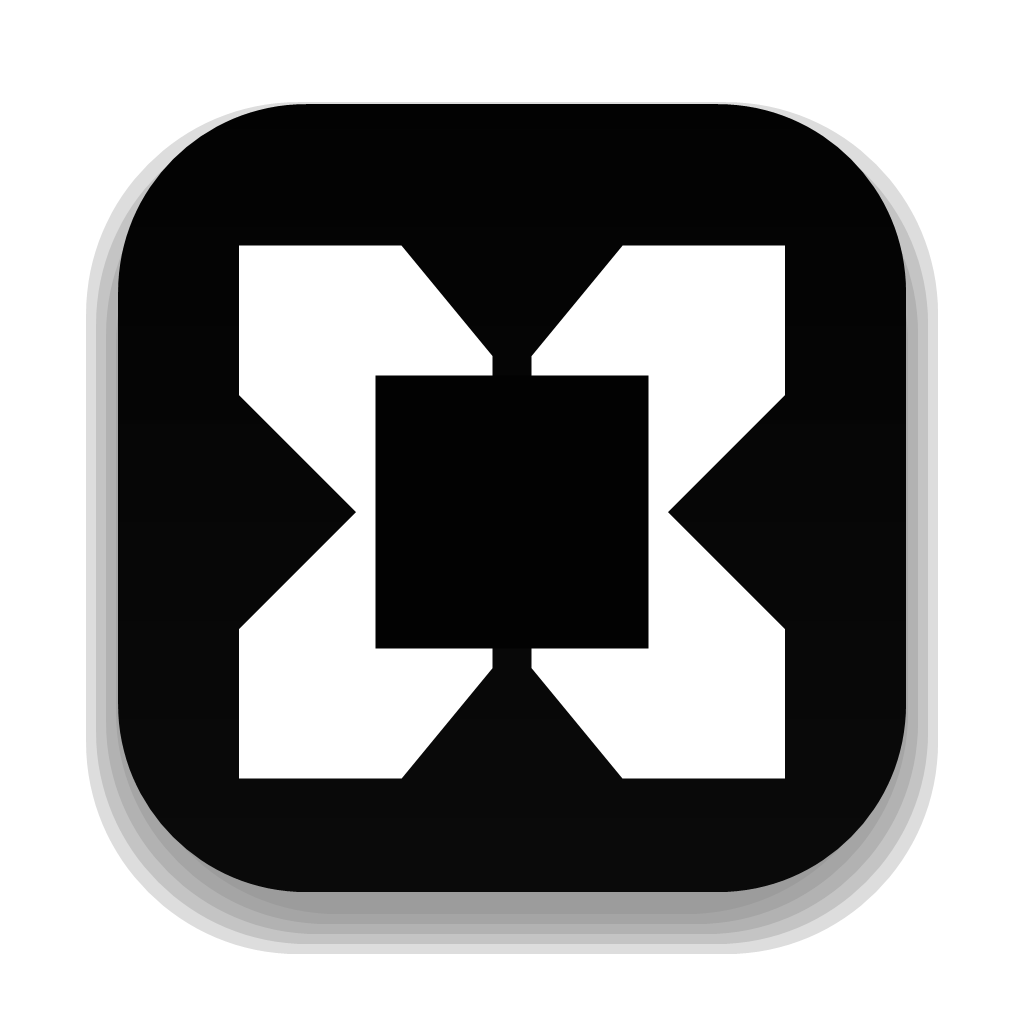
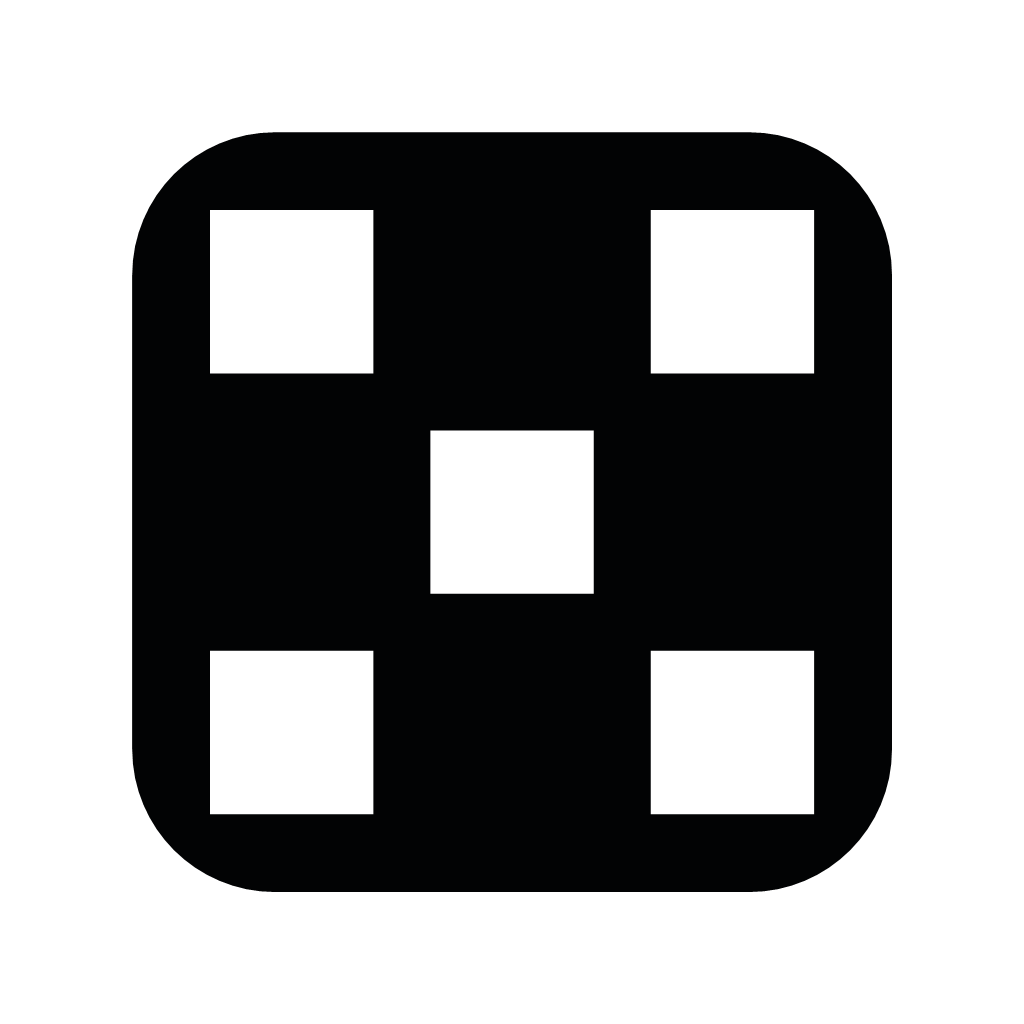
init

Changed region(s): [[0.0625, 0.0938, 0.9375, 0.9375], [0.1875, 0.1875, 0.8125, 0.8125], [0.4062, 0.4062, 0.5938, 0.5938]]

diff --git a/src/features/splash/StaticSplash.tsx b/src/features/splash/StaticSplash.tsx
@@ -1,23 +1,59 @@
-import { Image, StyleSheet, useWindowDimensions, View } from 'react-native';
+import { StyleSheet, useWindowDimensions, View } from 'react-native';
 
 type StaticSplashProps = {
   readonly onReady: () => void;
 };
 
-const splashLogoSource = require('../../../assets/brand/splash-logo.png');
+const logoModuleRatio = 0.215;
+const logoGapRatio = 0.075;
+const logoModulePlacements = [
+  [0, 0],
+  [2, 0],
+  [1, 1],
+  [0, 2],
+  [2, 2]
+] as const;
+
+type CodeLogoGlyphProps = {
+  readonly color: string;
+  readonly size: number;
+};
+
+function CodeLogoGlyph({ color, size }: CodeLogoGlyphProps) {
+  const moduleSize = Math.round(size * logoModuleRatio);
+  const moduleGap = Math.round(size * logoGapRatio);
+  const glyphContentSize = (moduleSize * 3) + (moduleGap * 2);
+  const glyphOffset = Math.round((size - glyphContentSize) / 2);
+
+  return (
+    <View style={{ height: size, width: size }}>
+      {logoModulePlacements.map(([columnIndex, rowIndex]) => (
+        <View
+          key={`${columnIndex}-${rowIndex}`}
+          style={[
+            styles.logoModule,
+            {
+              backgroundColor: color,
+              height: moduleSize,
+              left: glyphOffset + (columnIndex * (moduleSize + moduleGap)),
+              top: glyphOffset + (rowIndex * (moduleSize + moduleGap)),
+              width: moduleSize
+            }
+          ]}
+        />
+      ))}
+    </View>
+  );
+}
 
 export function StaticSplash({ onReady }: StaticSplashProps) {
   const { width, height } = useWindowDimensions();
   const shortSide = Math.max(Math.min(width, height), 240);
-  const logoCanvasSize = Math.round(Math.min(Math.max(shortSide * 0.56, 188), 240));
+  const logoSize = Math.round(Math.min(Math.max(shortSide * 0.24, 72), 104));
 
   return (
     <View style={styles.root} onLayout={onReady}>
-      <Image
-        resizeMode="contain"
-        source={splashLogoSource}
-        style={{ height: logoCanvasSize, width: logoCanvasSize }}
-      />
+      <CodeLogoGlyph color="#050505" size={logoSize} />
     </View>
   );
 }
@@ -28,5 +64,8 @@ const styles = StyleSheet.create({
     backgroundColor: '#FFFFFF',
     flex: 1,
     justifyContent: 'center'
+  },
+  logoModule: {
+    position: 'absolute'
   }
 });

diff --git a/App.tsx b/App.tsx
@@ -6,7 +6,7 @@ import { SafeAreaProvider } from 'react-native-safe-area-context';
 import { HomeScreen } from './src/features/home/HomeScreen';
 import { StaticSplash } from './src/features/splash/StaticSplash';
 
-const STATIC_SPLASH_HOLD_MS = 400;
+const STATIC_SPLASH_HOLD_MS = 600;
 
 void SplashScreen.preventAutoHideAsync().catch(() => undefined);
 
@@ -32,7 +32,7 @@ export default function App() {
 
     staticSplashReadyRef.current = true;
 
-    // 功能目的：静态停留 0.4 秒后进入首页；实现原因：用户要求无动画但保留短暂品牌露出
+    // 功能目的：静态停留 0.6 秒后进入首页；实现原因：用户要求无动画但保留短暂品牌露出
     void SplashScreen.hideAsync()
       .catch(() => undefined)
       .finally(() => {

diff --git a/BrandAssetRenderer.cs b/BrandAssetRenderer.cs
@@ -1,14 +1,3 @@
-$ErrorActionPreference = "Stop"
-[Console]::OutputEncoding = [System.Text.Encoding]::UTF8
-
-Add-Type -AssemblyName System.Drawing
-
-$projectRoot = Resolve-Path (Join-Path $PSScriptRoot "..")
-$assetDirectory = Join-Path $projectRoot "assets\brand"
-
-New-Item -ItemType Directory -Force $assetDirectory | Out-Null
-
-$brandRendererSource = @"
 using System;
 using System.Drawing;
 using System.Drawing.Drawing2D;
@@ -126,34 +115,3 @@ public static class BrandAssetRenderer
         return path;
     }
 }
-"@
-
-# 功能目的：编译内嵌渲染器；实现原因：PowerShell 直接绑定 System.Drawing 构造器在不同版本上不稳定
-$temporaryDirectory = $env:TEMP
-if ([string]::IsNullOrWhiteSpace($temporaryDirectory)) {
-    $temporaryDirectory = $projectRoot.Path
-}
-
-$rendererSourcePath = Join-Path $temporaryDirectory "BrandAssetRenderer.cs"
-[System.IO.File]::WriteAllText($rendererSourcePath, $brandRendererSource, [System.Text.UTF8Encoding]::new($false))
-Add-Type -ReferencedAssemblies "System.Drawing" -Path $rendererSourcePath
-$rendererType = [AppDomain]::CurrentDomain.GetAssemblies() |
-    ForEach-Object { $_.GetType("BrandAssetRenderer", $false) } |
-    Where-Object { $null -ne $_ } |
-    Select-Object -First 1
-
-if ($null -eq $rendererType) {
-    throw "BrandAssetRenderer type load failed"
-}
-
-$iconPath = Join-Path $assetDirectory "icon.png"
-$adaptiveIconPath = Join-Path $assetDirectory "adaptive-icon.png"
-$splashLogoPath = Join-Path $assetDirectory "splash-logo.png"
-$splashPath = Join-Path $assetDirectory "splash.png"
-
-$rendererType.GetMethod("SaveIcon").Invoke($null, @([string]$iconPath)) | Out-Null
-$rendererType.GetMethod("SaveIcon").Invoke($null, @([string]$adaptiveIconPath)) | Out-Null
-$rendererType.GetMethod("SaveSplashLogo").Invoke($null, @([string]$splashLogoPath)) | Out-Null
-$rendererType.GetMethod("SaveSplash").Invoke($null, @([string]$splashPath)) | Out-Null
-
-Get-ChildItem -File $assetDirectory | Select-Object FullName, Length
